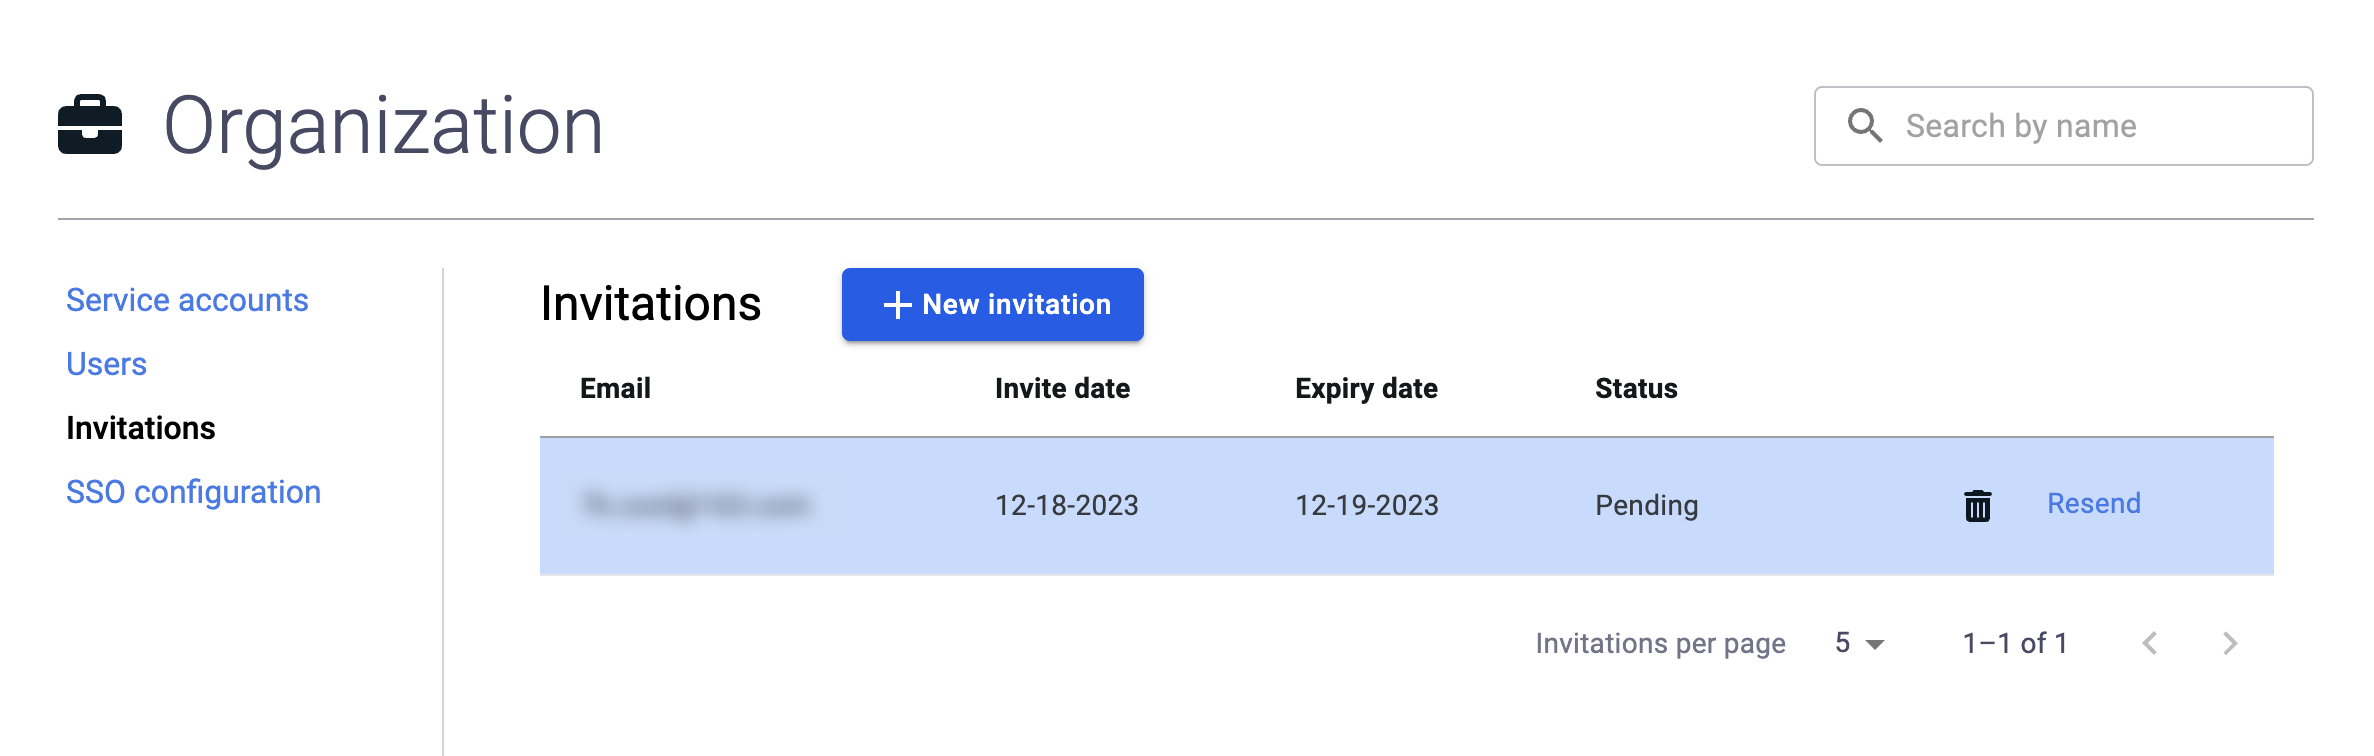
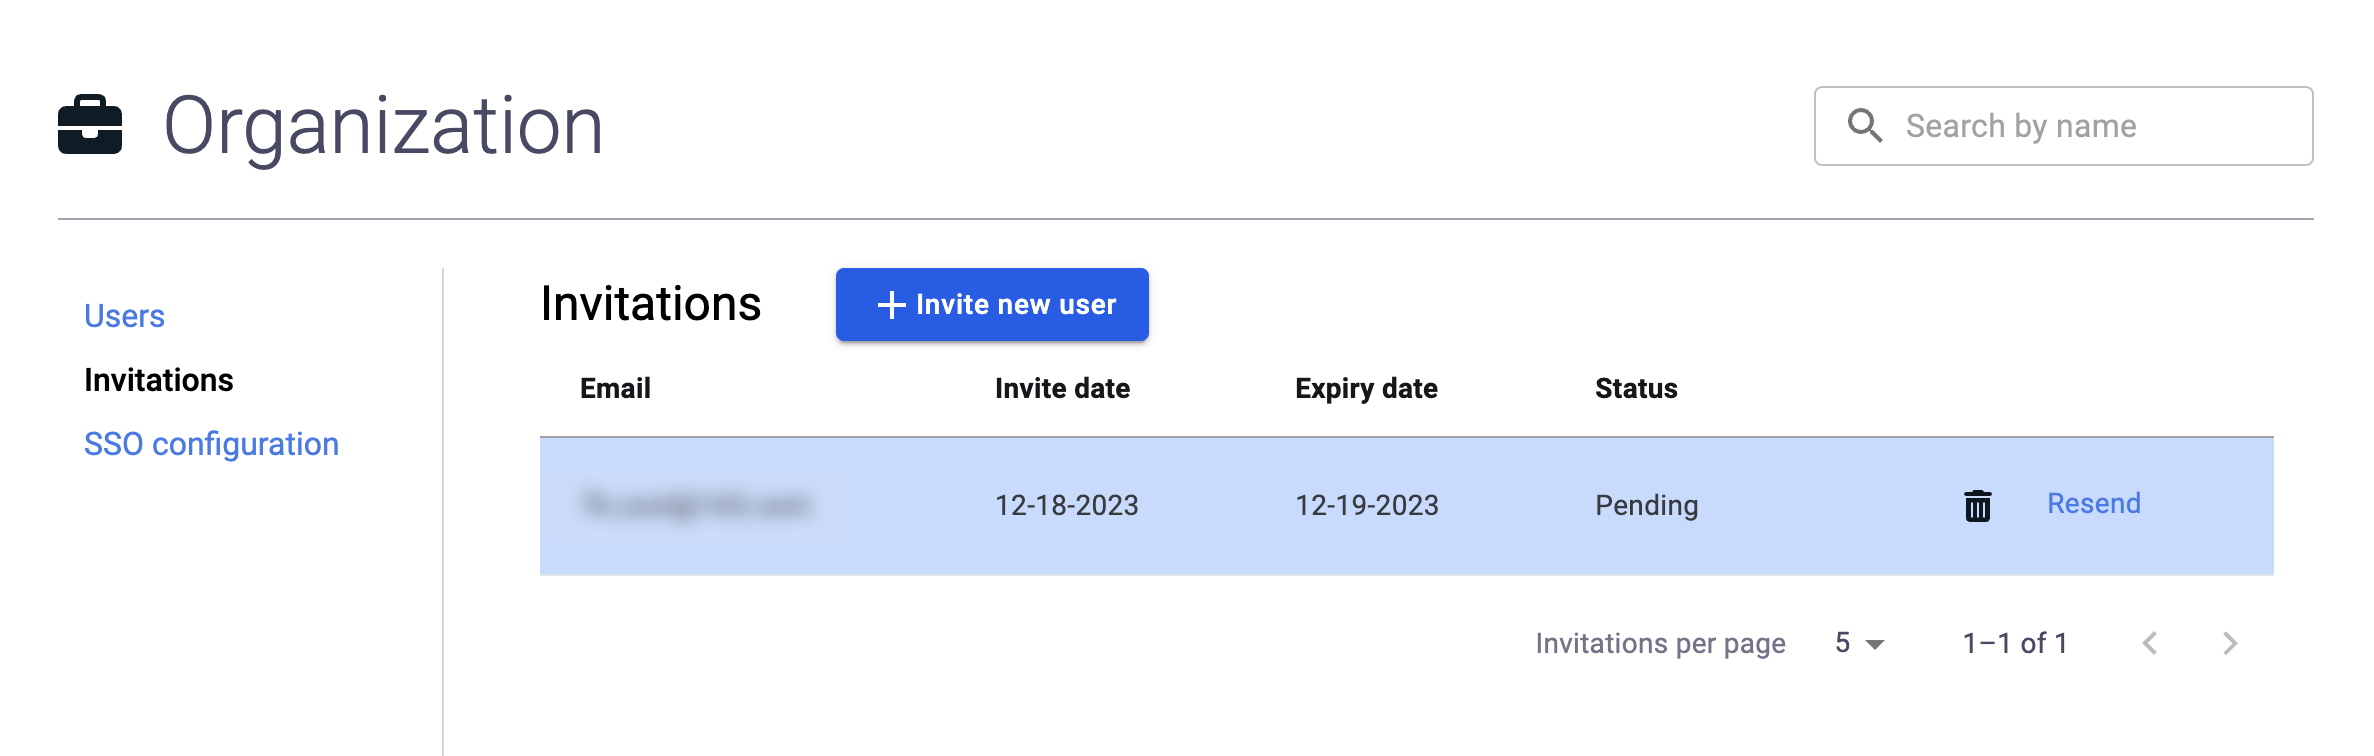
Update due to UI change

diff --git a/cloud/organization-manage-users.md b/cloud/organization-manage-users.md
@@ -24,7 +24,7 @@ alt="Invitations"
 
 **Steps:**
 
-1. Go to the [**Org.**](https://cloud.risingwave.com/organization/) tab and select **Invitations**.
+1. Go to the [**Org.**](https://cloud.risingwave.com/organization/) tab and select **Invitations** or **Users**.
 
 2. Click **Invite new user**.
 
